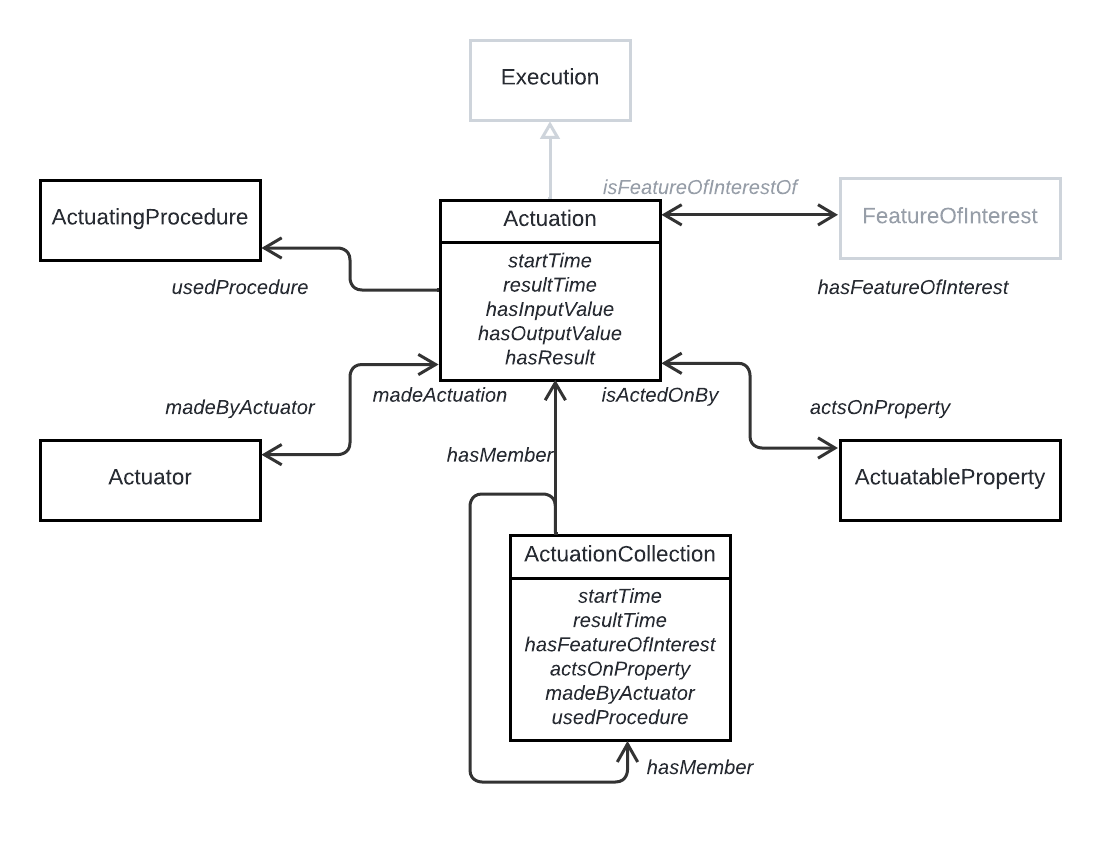
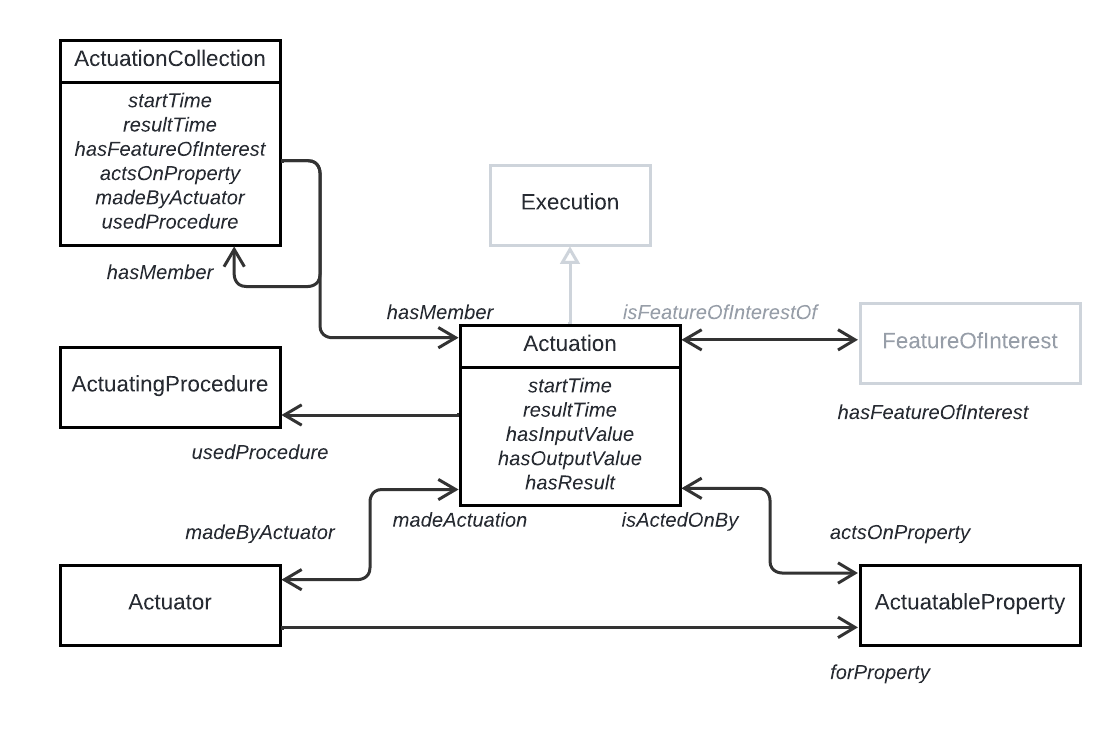
Add forProperty in FoI anf Actuation diagrams

diff --git a/ssn/index.html b/ssn/index.html
@@ -215,27 +215,27 @@
       <figure>
         <img alt="SSN ontology modules - Actuation" src="images/Actuation-overview.png">
         <figcaption>
-          Overview of the SSN classes and properties (actuation perspective)
+          Overview of the key classes and properties (actuation perspective)
           <br>
-          <em>See <a href="#class-diagram">explanation of the notation used in class diagrams</a></em>.
+          <em><a href="#class-diagram">Explanation of the notation used in class diagrams</a></em>.
         </figcaption>
       </figure>
 
       <figure>
         <img alt="SSN ontology modules - Observation" src="images/Observation-overview.png">
         <figcaption>
-          Overview of the SSN classes and properties (observation perspective)
+          Overview of the key classes and properties (observation perspective)
           <br>
-          <em>See <a href="#class-diagram">explanation of the notation used in class diagrams</a></em>.
+          <em><a href="#class-diagram">Explanation of the notation used in class diagrams</a></em>.
         </figcaption>
       </figure>
 
       <figure>
         <img alt="SSN ontology modules - Sampling" src="images/Sampling-overview.png">
         <figcaption>
-          Overview of the SSN classes and properties (sampling perspective)
+          Overview of the key classes and properties (sampling perspective)
           <br>
-          <em>See <a href="#class-diagram">explanation of the notation used in class diagrams</a></em>.
+          <em><a href="#class-diagram">Explanation of the notation used in class diagrams</a></em>.
         </figcaption>
       </figure>
       <div id="index-of-classes-and-properties">
